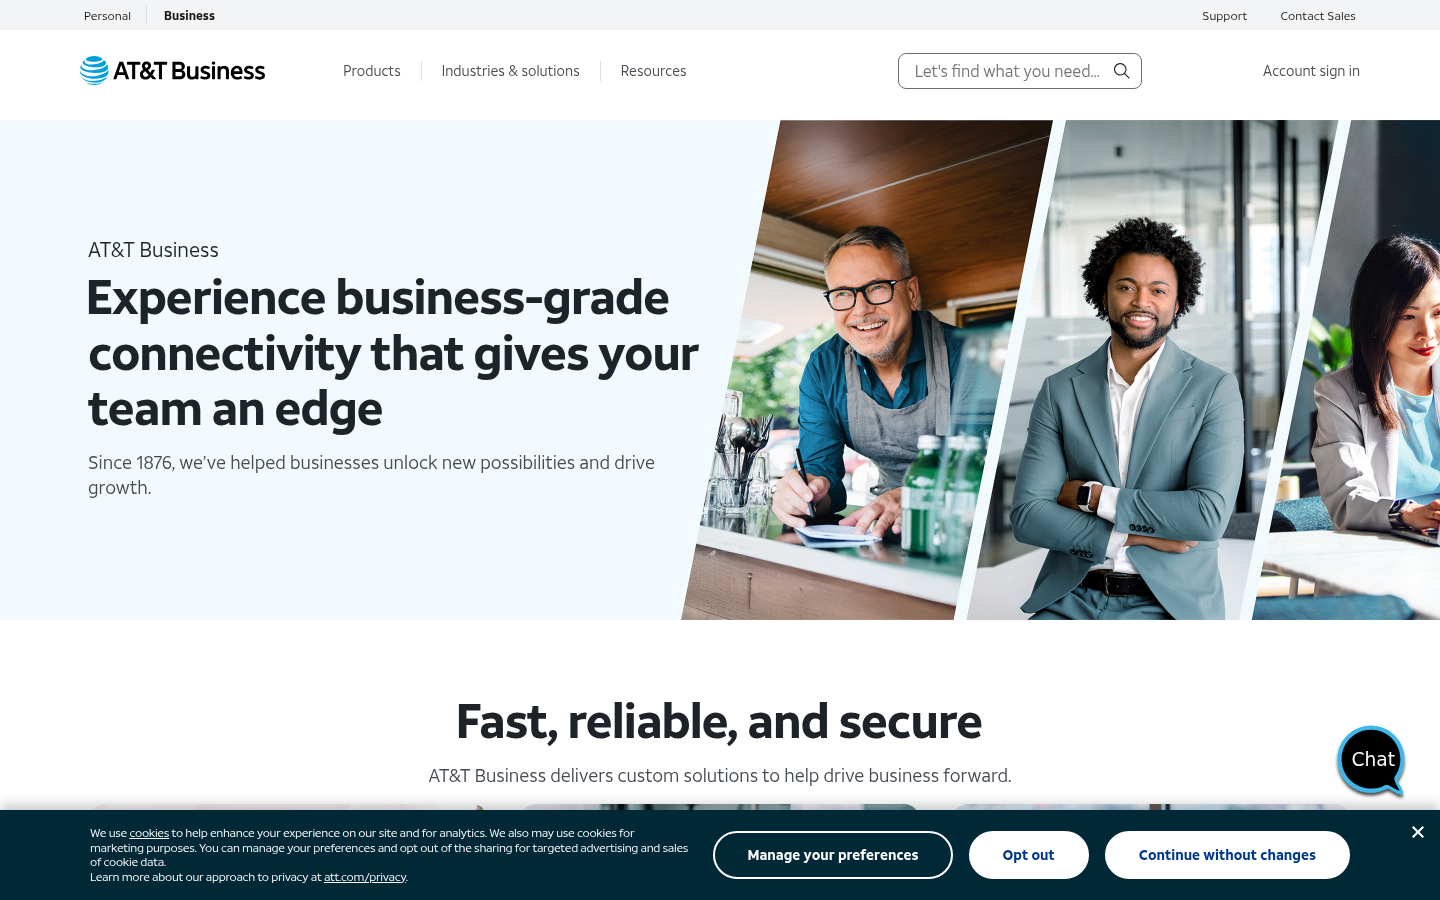
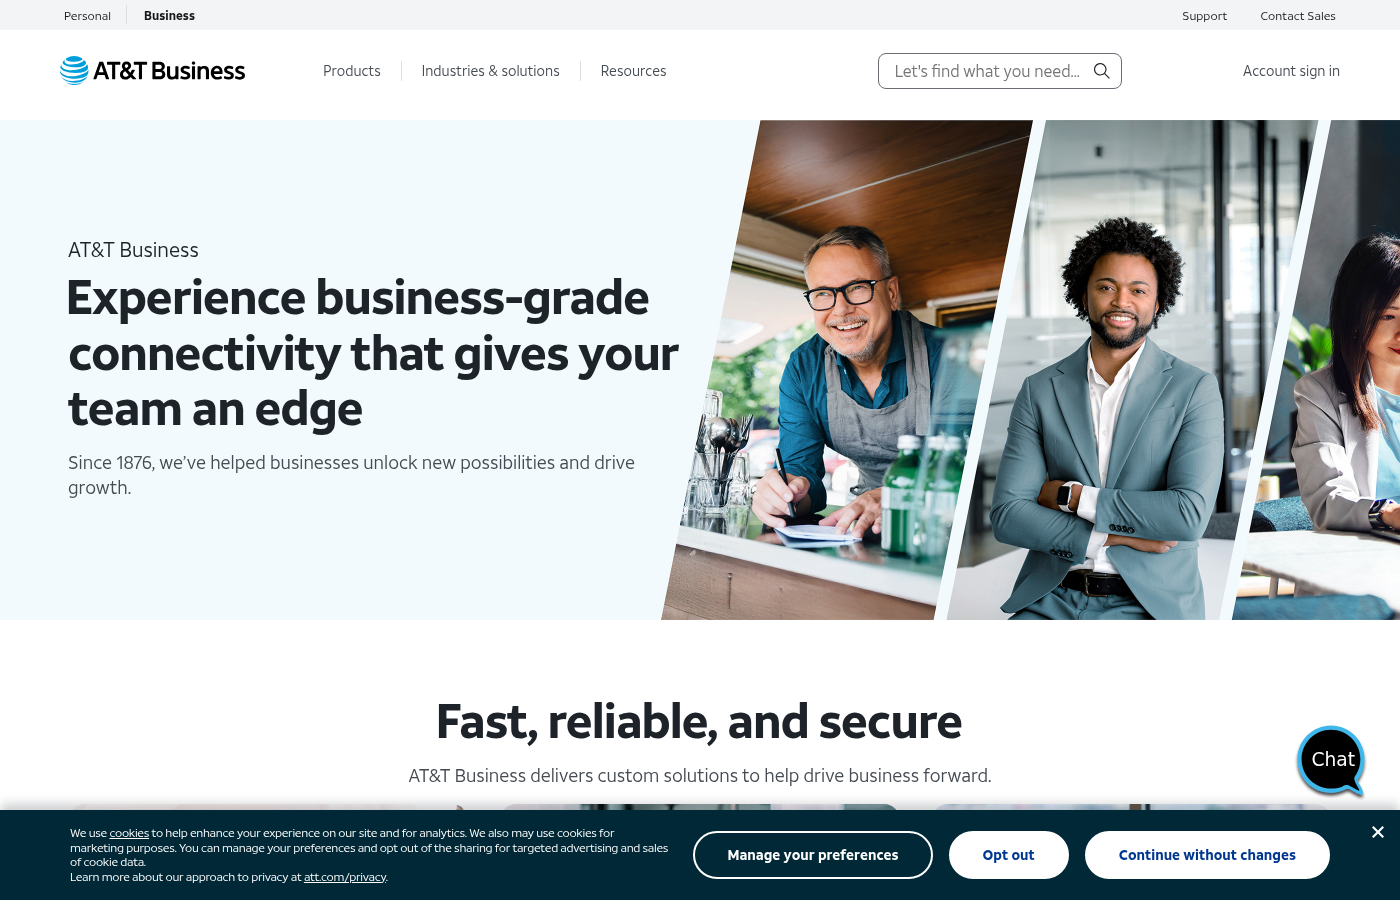
Add header block
Automated migration updates generated by Experience Modernization Agent.

Changed files (4):
- blocks/header/header.css
- blocks/header/header.js
- eds-header-updated.png
- source-header.png

diff --git a/blocks/header/header.css b/blocks/header/header.css
@@ -205,6 +205,65 @@ header nav .nav-tools a:any-link {
   color: var(--text-color-secondary);
 }
 
+/* ===== Search box (desktop only) ===== */
+header nav .nav-search {
+  display: none;
+}
+
+header nav .nav-search-form {
+  display: flex;
+  align-items: center;
+  height: 36px;
+  border: 1px solid #686e74;
+  border-radius: 8px;
+  background-color: var(--background-color);
+  overflow: hidden;
+}
+
+header nav .nav-search-form input[type='search'] {
+  border: 0;
+  background: transparent;
+  font-size: 14px;
+  font-family: var(--body-font-family);
+  color: var(--text-color);
+  padding: 0 12px;
+  height: 100%;
+  width: 180px;
+  outline: none;
+}
+
+header nav .nav-search-form input[type='search']::placeholder {
+  color: var(--text-color-secondary);
+}
+
+header nav .nav-search-btn {
+  border: 0;
+  background: transparent;
+  cursor: pointer;
+  padding: 0 10px;
+  display: flex;
+  align-items: center;
+  height: 100%;
+}
+
+/* ===== Account sign in (desktop only) ===== */
+header nav .nav-account {
+  display: none;
+}
+
+/* stylelint-disable-next-line no-descending-specificity */
+header nav .nav-account-link {
+  font-size: 14px;
+  font-weight: 500;
+  color: var(--text-color-secondary);
+  text-decoration: none;
+  white-space: nowrap;
+}
+
+header nav .nav-account-link:hover {
+  color: var(--att-blue);
+}
+
 /* ===== Top utility bar (desktop only) ===== */
 header .nav-top-bar {
   background-color: #f3f4f6;
@@ -415,6 +474,19 @@ header .nav-top-tools a:hover {
   /* stylelint-disable-next-line no-descending-specificity */
   header nav .nav-sections .default-content-wrapper > ul > li > ul > li {
     padding: 8px 0;
+  }
+
+  /* Show search and account in main nav on desktop */
+  header nav .nav-search {
+    display: flex;
+    align-items: center;
+    margin-left: auto;
+  }
+
+  header nav .nav-account {
+    display: flex;
+    align-items: center;
+    margin-left: 24px;
   }
 
   /* Hide tools in main nav on desktop (shown in top bar instead) */

diff --git a/blocks/header/header.js b/blocks/header/header.js
@@ -158,6 +158,36 @@ export default async function decorate(block) {
     });
   }
 
+  // Build search box (visible on desktop only, hidden via CSS on mobile)
+  const navSearch = document.createElement('div');
+  navSearch.className = 'nav-search';
+  const searchForm = document.createElement('form');
+  searchForm.className = 'nav-search-form';
+  searchForm.setAttribute('role', 'search');
+  searchForm.addEventListener('submit', (e) => e.preventDefault());
+  const searchInput = document.createElement('input');
+  searchInput.type = 'search';
+  searchInput.placeholder = "Let's find what you need...";
+  searchInput.setAttribute('aria-label', 'Search AT&T business');
+  const searchBtn = document.createElement('button');
+  searchBtn.type = 'submit';
+  searchBtn.className = 'nav-search-btn';
+  searchBtn.setAttribute('aria-label', 'Search');
+  searchBtn.innerHTML = '<svg width="22" height="22" viewBox="0 0 14 14" fill="none"><path d="M10.725 10C12.6 7.738 12.366 4.402 10.194 2.424 8.022.446 4.679.524 2.601 2.601.524 4.679.446 8.022 2.424 10.194 4.402 12.366 7.738 12.6 10 10.725L14.13 14.855 14.84 14.145 10.725 10ZM6.5 11C4.015 11 2 8.985 2 6.5S4.015 2 6.5 2 11 4.015 11 6.5 8.985 11 6.5 11Z" fill="#1D2329"/></svg>';
+  searchForm.append(searchInput, searchBtn);
+  navSearch.append(searchForm);
+  nav.append(navSearch);
+
+  // Build account sign-in link (visible on desktop only, hidden via CSS on mobile)
+  const navAccount = document.createElement('div');
+  navAccount.className = 'nav-account';
+  const accountLink = document.createElement('a');
+  accountLink.href = 'https://www.att.com/acctmgmt/signin';
+  accountLink.className = 'nav-account-link';
+  accountLink.textContent = 'Account sign in';
+  navAccount.append(accountLink);
+  nav.append(navAccount);
+
   // hamburger for mobile
   const hamburger = document.createElement('div');
   hamburger.classList.add('nav-hamburger');
